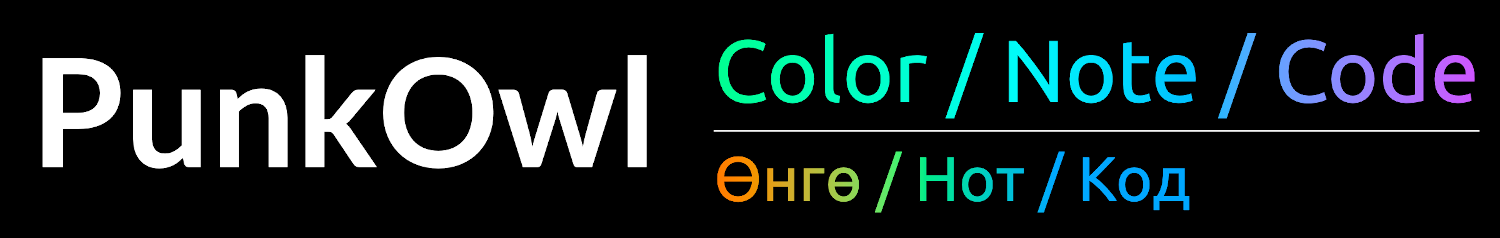
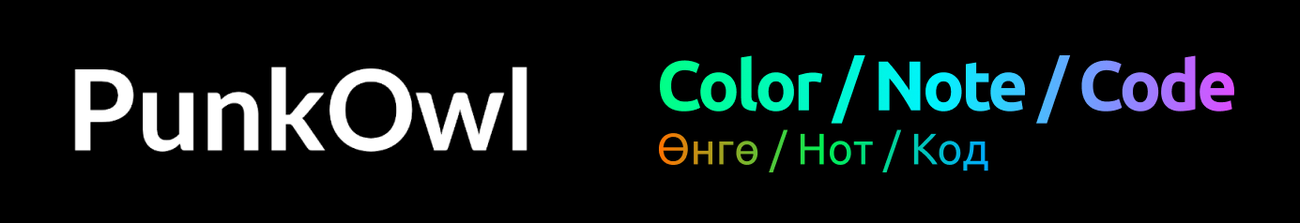
mood rain impl

Changed region(s): [[0.4615, 0.1345, 0.9846, 0.565], [0.0308, 0.2152, 0.4308, 0.7265], [0.4615, 0.5919, 0.8, 0.8879]]

diff --git a/modules/orchestrator/src/main/java/mn/von/gestalt/Orchestrator.java b/modules/orchestrator/src/main/java/mn/von/gestalt/Orchestrator.java
@@ -8,10 +8,7 @@ import mn.von.gestalt.utility.config.Config;
 import mn.von.gestalt.utility.annotation.LoadOrchestrator;
 import mn.von.gestalt.utility.config.dto.AudioDto;
 import mn.von.gestalt.utility.config.dto.ParamDto;
-import mn.von.gestalt.utility.grimoire.AudioUtils;
-import mn.von.gestalt.utility.grimoire.ImageSupporter;
-import mn.von.gestalt.utility.grimoire.ImageTransformer;
-import mn.von.gestalt.utility.grimoire.NoiseGenerator;
+import mn.von.gestalt.utility.grimoire.*;
 import mn.von.gestalt.zenphoton.HQZUtils;
 import mn.von.gestalt.zenphoton.dto.ZObject;
 
@@ -104,6 +101,7 @@ public class Orchestrator {
             for (String audioFile : audioFiles) {
                 System.out.println(audioFile);
                 ArrayList<Color> moodbar = MoodbarAdapter.buildMoodbar(testPath + audioFile + ".mp3", testPath + "/tmp_moodbar");
+                FileUtils.moodbarToFile(moodbar, testPath + audioFile + ".txt");
                 BufferedImage scaledImage = ImageTransformer.scaleImage(MoodbarAdapter.toBufferedImage(moodbar, height), width, height);
                 moodbars.add(scaledImage);
             }
@@ -111,7 +109,6 @@ public class Orchestrator {
             ImageSupporter.setBackgroundColor(Color.WHITE);
             ImageSupporter.setFontColor(Color.BLACK);
             ImageSupporter.setFontSize(fontSize);
-            ImageSupporter.setFontName("Roboto Mono");
             BufferedImage image = new LunarTear().vanilla4Bar(moodbars, displayTexts, height, width, fontSize);
 
             ImageIO.write(
@@ -343,13 +340,13 @@ public class Orchestrator {
                 BufferedImage img = ImageIO.read(outputFile);
                 ImageSupporter.setBackgroundColor(Color.BLACK);
                 ImageSupporter.setFontColor(Color.WHITE);
-                ImageSupporter.setFontSize(140);
+                ImageSupporter.setFontSize(110);
 
                 img = ImageSupporter.addTitleOver(img, audio.getDisplayText().get(i), 265, 190);
 
                 if(audio.isHasBanner()) {
                     BufferedImage bannerImg = ImageIO.read(new File("gestalt_banner.png"));
-                    img = ImageSupporter.addMarkOver(img, bannerImg, 8350 - bannerImg.getHeight(), 4290);
+                    img = ImageSupporter.addMarkOver(img, bannerImg, 8350 - bannerImg.getHeight(), 5906-bannerImg.getWidth()-140);
                 }
 
                 ImageIO.write(img, Config.OUTPUT_IMAGE_FORMAT, outputFile);

diff --git a/modules/orchestrator/src/main/java/mn/von/gestalt/utility/grimoire/FileUtils.java b/modules/orchestrator/src/main/java/mn/von/gestalt/utility/grimoire/FileUtils.java
@@ -1,0 +1,23 @@
+package mn.von.gestalt.utility.grimoire;
+
+import java.awt.*;
+import java.io.File;
+import java.io.FileNotFoundException;
+import java.io.PrintWriter;
+import java.io.UnsupportedEncodingException;
+import java.util.ArrayList;
+
+public class FileUtils {
+
+    public static void moodbarToFile(ArrayList<Color> moodbar, String output) throws FileNotFoundException, UnsupportedEncodingException {
+        PrintWriter writer = new PrintWriter(output, "UTF-8");
+        writer.println("Moodbar color codes | Color Note Code (PunkOwl)");
+        writer.println("============================");
+        for(Color color : moodbar) {
+            writer.println("rgb("+color.getRed()+","+color.getGreen()+","+color.getBlue()+")");
+        }
+
+        writer.close();
+    }
+
+}

diff --git a/modules/orchestrator/src/main/java/mn/von/gestalt/spectogram/Spectrumizer.java b/modules/orchestrator/src/main/java/mn/von/gestalt/spectogram/Spectrumizer.java
@@ -95,7 +95,7 @@ public class Spectrumizer {
                     Color temp = MOODBAR.get(idx);
 //                    if(min > DATA[i][e]) min = DATA[i][e];
 //                    if(max < DATA[i][e]) max = DATA[i][e];
-                    DATA[i][e] = noiseFilter(DATA[i][e]);
+                     DATA[i][e] = noiseFilter(DATA[i][e]);
 
                     if(DATA[i][e] != 0) {
                         ctx.setColor(new Color(
@@ -114,9 +114,9 @@ public class Spectrumizer {
     }
 
     private Double noiseFilter(Double threshold) {
-        threshold -= 0.65;
+        threshold -= 0.45;
         if(threshold < 0) threshold = 0.0;
-        threshold *= 8.0;
+        threshold *= 3.5;
         if(threshold > 1) threshold = 1.0;
         return threshold;
     }

diff --git a/modules/orchestrator/src/main/java/mn/von/gestalt/spectogram/dl4jDataVec/Spectrogram.java b/modules/orchestrator/src/main/java/mn/von/gestalt/spectogram/dl4jDataVec/Spectrogram.java
@@ -21,7 +21,7 @@ import mn.von.gestalt.utility.dsp.WindowFunction;
 
 public class Spectrogram {
 
-    public static final int SPECTROGRAM_DEFAULT_FFT_SAMPLE_SIZE = 1024;
+    public static final int SPECTROGRAM_DEFAULT_FFT_SAMPLE_SIZE = 512; // 1024 default
     public static final int SPECTROGRAM_DEFAULT_OVERLAP_FACTOR = 0; // 0 for no overlapping
 
     private Wave wave;
